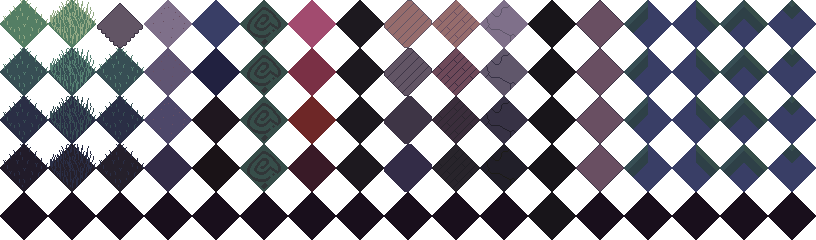
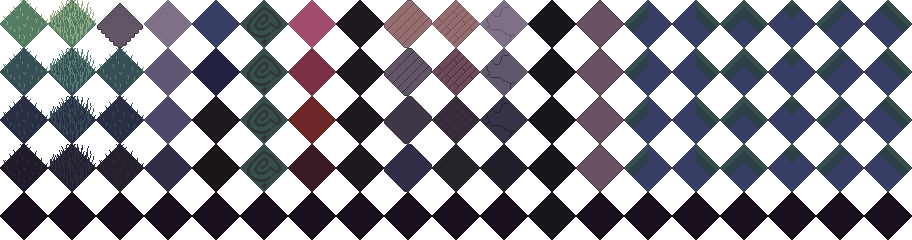
saving

diff --git a/bleed-client/lib/modules/isometric/actions.dart b/bleed-client/lib/modules/isometric/actions.dart
@@ -171,14 +171,14 @@ class IsometricActions with IsometricScope {
 
         final tileAboveLeft = row > 0 && tiles[row - 1][column] != Tile.Water;
         final tileAboveRight = column > 0 && tiles[row][column - 1] != Tile.Water;
-
+        final tileAbove = row > 0 &&
+            column > 0 &&
+            tiles[row - 1][column - 1] != Tile.Water;
 
         if (tile == Tile.Water){
           if (!tileAboveLeft && !tileAboveRight){
 
-            final tileAbove = row > 0 &&
-                column > 0 &&
-                tiles[row - 1][column - 1] != Tile.Water;
+
 
             if (tileAbove){
               tileLeft.add(waterCorner4);
@@ -189,7 +189,12 @@ class IsometricActions with IsometricScope {
             if (tileAboveRight){
               tileLeft.add(waterCorner3);
             }else{
-              tileLeft.add(waterCorner1);
+              if (tileAbove){
+                  tileLeft.add(waterHor);
+              }else{
+                tileLeft.add(waterCorner1);
+              }
+
             }
           }else{
             tileLeft.add(waterCorner2);

diff --git a/bleed-client/lib/mappers/mapTileToSrcRect.dart b/bleed-client/lib/mappers/mapTileToSrcRect.dart
@@ -54,20 +54,19 @@ final _concrete = _frame(4);
 final _concreteHorizontal = _concrete;
 final _concreteVertical =  _concrete;
 final water = _frame(5);
-final _rune = _frame(6);
 final _zombieSpawn = _frame(7);
 final _flowers = _longGrass;
-final rectSrcDarkness = _frame(8);
 final _bridge = _frame(9);
 final _woodenFloor = _frame(10);
 final _rock = _frame(11);
 final _black = _frame(12);
 final _rockWall = _frame(13);
-
 final waterCorner1 = _frame(14);
 final waterCorner2 = _frame(15);
 final waterCorner3 = _frame(16);
 final waterCorner4 = _frame(17);
+final waterHor = _frame(18);
+final waterVer = _frame(19);
 
 const int tileCanvasWidth = 48;
 double _frame(int index) => (index - 1) * tileCanvasWidth.toDouble();
